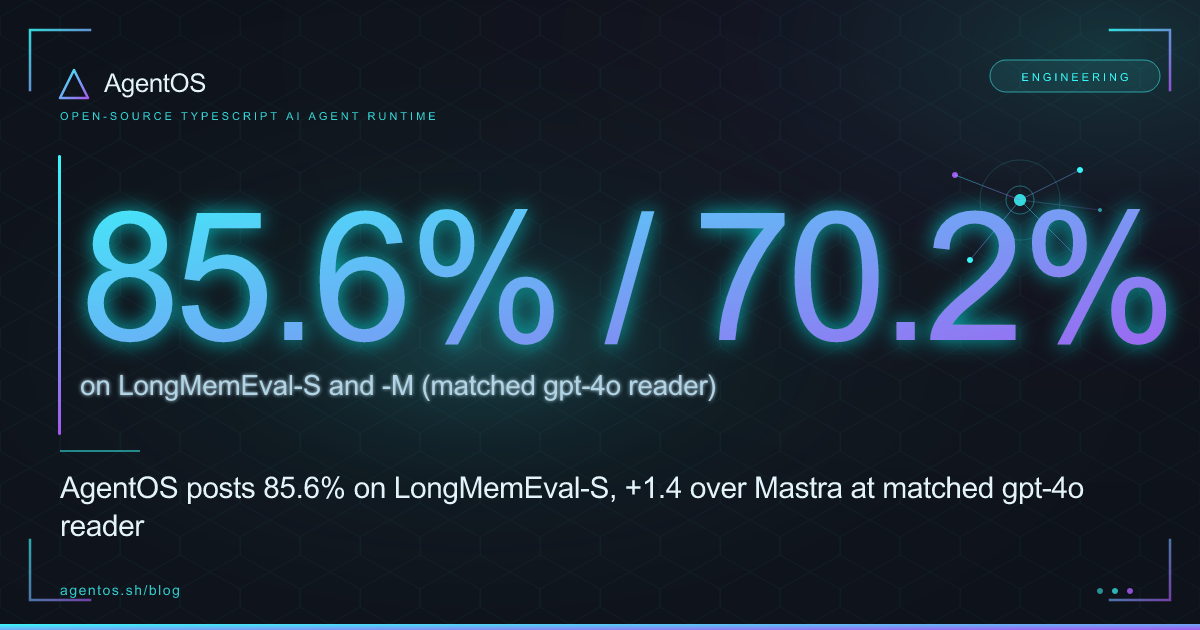
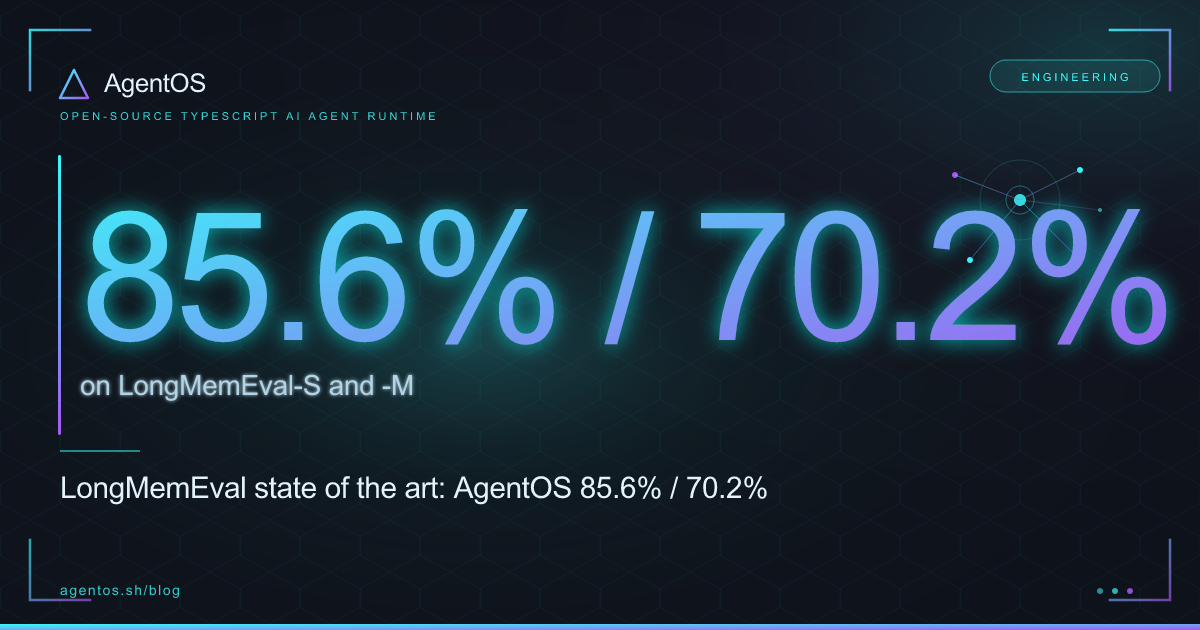
fix(blog/og): absolute Twitter + OG image URLs, prefer generated 1200x630 card
Twitter's crawler doesn't reliably fall back to og:image when
twitter:image is missing or the OG URL is relative. The metadata for
blog posts was emitting a relative path-only URL (and only on
openGraph, not twitter) which iMessage / Slack / Discord forgave but
Twitter silently dropped from the card.

Fix: always emit absolute https://agentos.sh/... URLs, prefer the
generated 1200x630 OG card from gen:og, fall back to the in-content
hero image. Also add explicit width/height/alt/type and an explicit
twitter.images array so summary_large_image renders predictably.

Generated paracosm-launch.png OG card via gen:og — was missing from
the build entirely.

Changed region(s): [[0.0308, 0.754, 0.8942, 0.8746], [0.3392, 0.6032, 0.6167, 0.6333]]

diff --git a/app/[locale]/blog/[slug]/page.tsx b/app/[locale]/blog/[slug]/page.tsx
@@ -32,6 +32,32 @@ export async function generateMetadata({ params: { locale, slug } }: Props) {
   const path = `/blog/${slug}`;
   const url = canonicalUrl(locale, path);
 
+  // OG / Twitter cards need ABSOLUTE image URLs. Twitter's crawler in
+  // particular has been unreliable about resolving relative paths
+  // against the page URL; iMessage / Slack / Discord are forgiving but
+  // Twitter rejects or silently strips the card when the image URL
+  // doesn't have an origin. Always emit https://agentos.sh/... here.
+  //
+  // Image-resolution priority:
+  //   1. The 1200x630 OG card generated by `gen:og` from the
+  //      title-banner / stat-banner SVG templates. Canonical Twitter
+  //      summary_large_image dimensions, branded layout, no surprises.
+  //   2. The frontmatter `image` field (an in-content screenshot the
+  //      author chose) — used when the OG generator hasn't run for
+  //      this slug yet.
+  //   3. The site default at /og-image.png.
+  const SITE_ORIGIN = 'https://agentos.sh';
+  const generatedOgPath = `/img/blog/og/${slug}.png`;
+  const ogPath = post.image && post.image.startsWith('/img/blog/og/')
+    ? post.image
+    : generatedOgPath;
+  const ogImageUrl = `${SITE_ORIGIN}${ogPath}`;
+  // Fallback to the author-supplied content image if it's the only
+  // thing we have. (post.image is always relative.)
+  const fallbackImageUrl = post.image
+    ? `${SITE_ORIGIN}${post.image}`
+    : `${SITE_ORIGIN}/og-image.png`;
+
   return {
     title: `${post.title} — AgentOS Blog`,
     description: post.excerpt || post.title,
@@ -45,7 +71,21 @@ export async function generateMetadata({ params: { locale, slug } }: Props) {
       description: post.excerpt || post.title,
       url,
       siteName: 'AgentOS',
-      images: post.image ? [{ url: post.image }] : [{ url: '/og-image.png' }],
+      images: [
+        {
+          url: ogImageUrl,
+          width: 1200,
+          height: 630,
+          alt: post.title,
+          type: 'image/png',
+        },
+        // Secondary: the in-content hero image, when present, so
+        // crawlers that pick the largest available image (some
+        // implementations) still get a high-quality option.
+        ...(post.image && !post.image.startsWith('/img/blog/og/')
+          ? [{ url: fallbackImageUrl, alt: post.title }]
+          : []),
+      ],
       type: 'article',
       publishedTime: post.date,
       authors: [post.author || 'AgentOS Team'],
@@ -54,6 +94,11 @@ export async function generateMetadata({ params: { locale, slug } }: Props) {
       card: 'summary_large_image' as const,
       title: post.title,
       description: post.excerpt || post.title,
+      // Explicit twitter:image. Twitter will not always fall back to
+      // og:image, especially when card='summary_large_image'. Absolute
+      // URL, 2:1 ratio, image/png.
+      images: [ogImageUrl],
+      creator: '@manicagencyhq',
     },
   };
 }